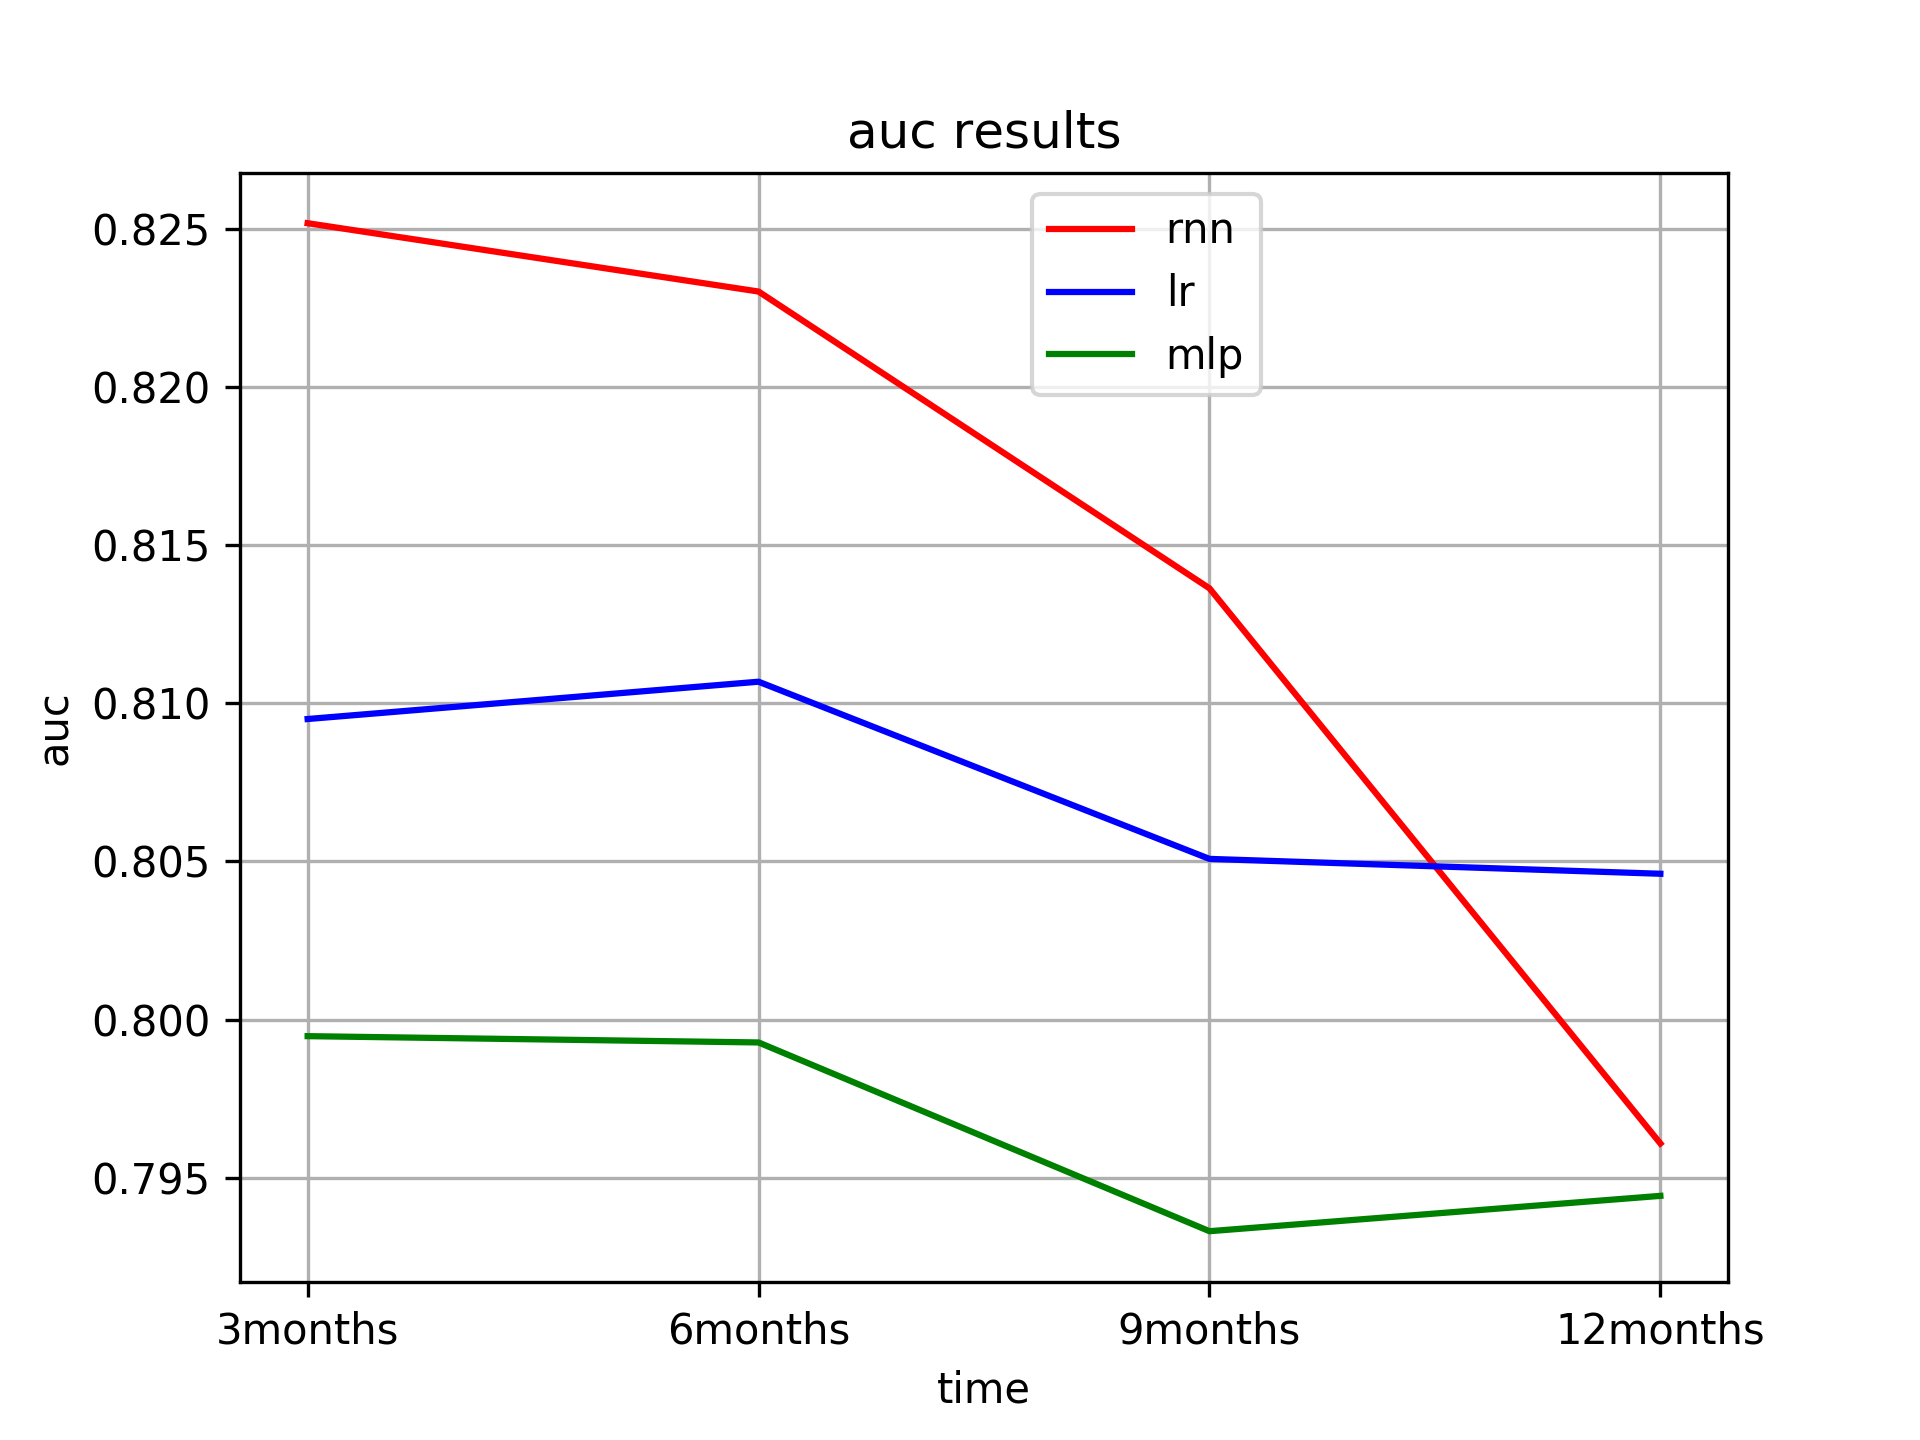
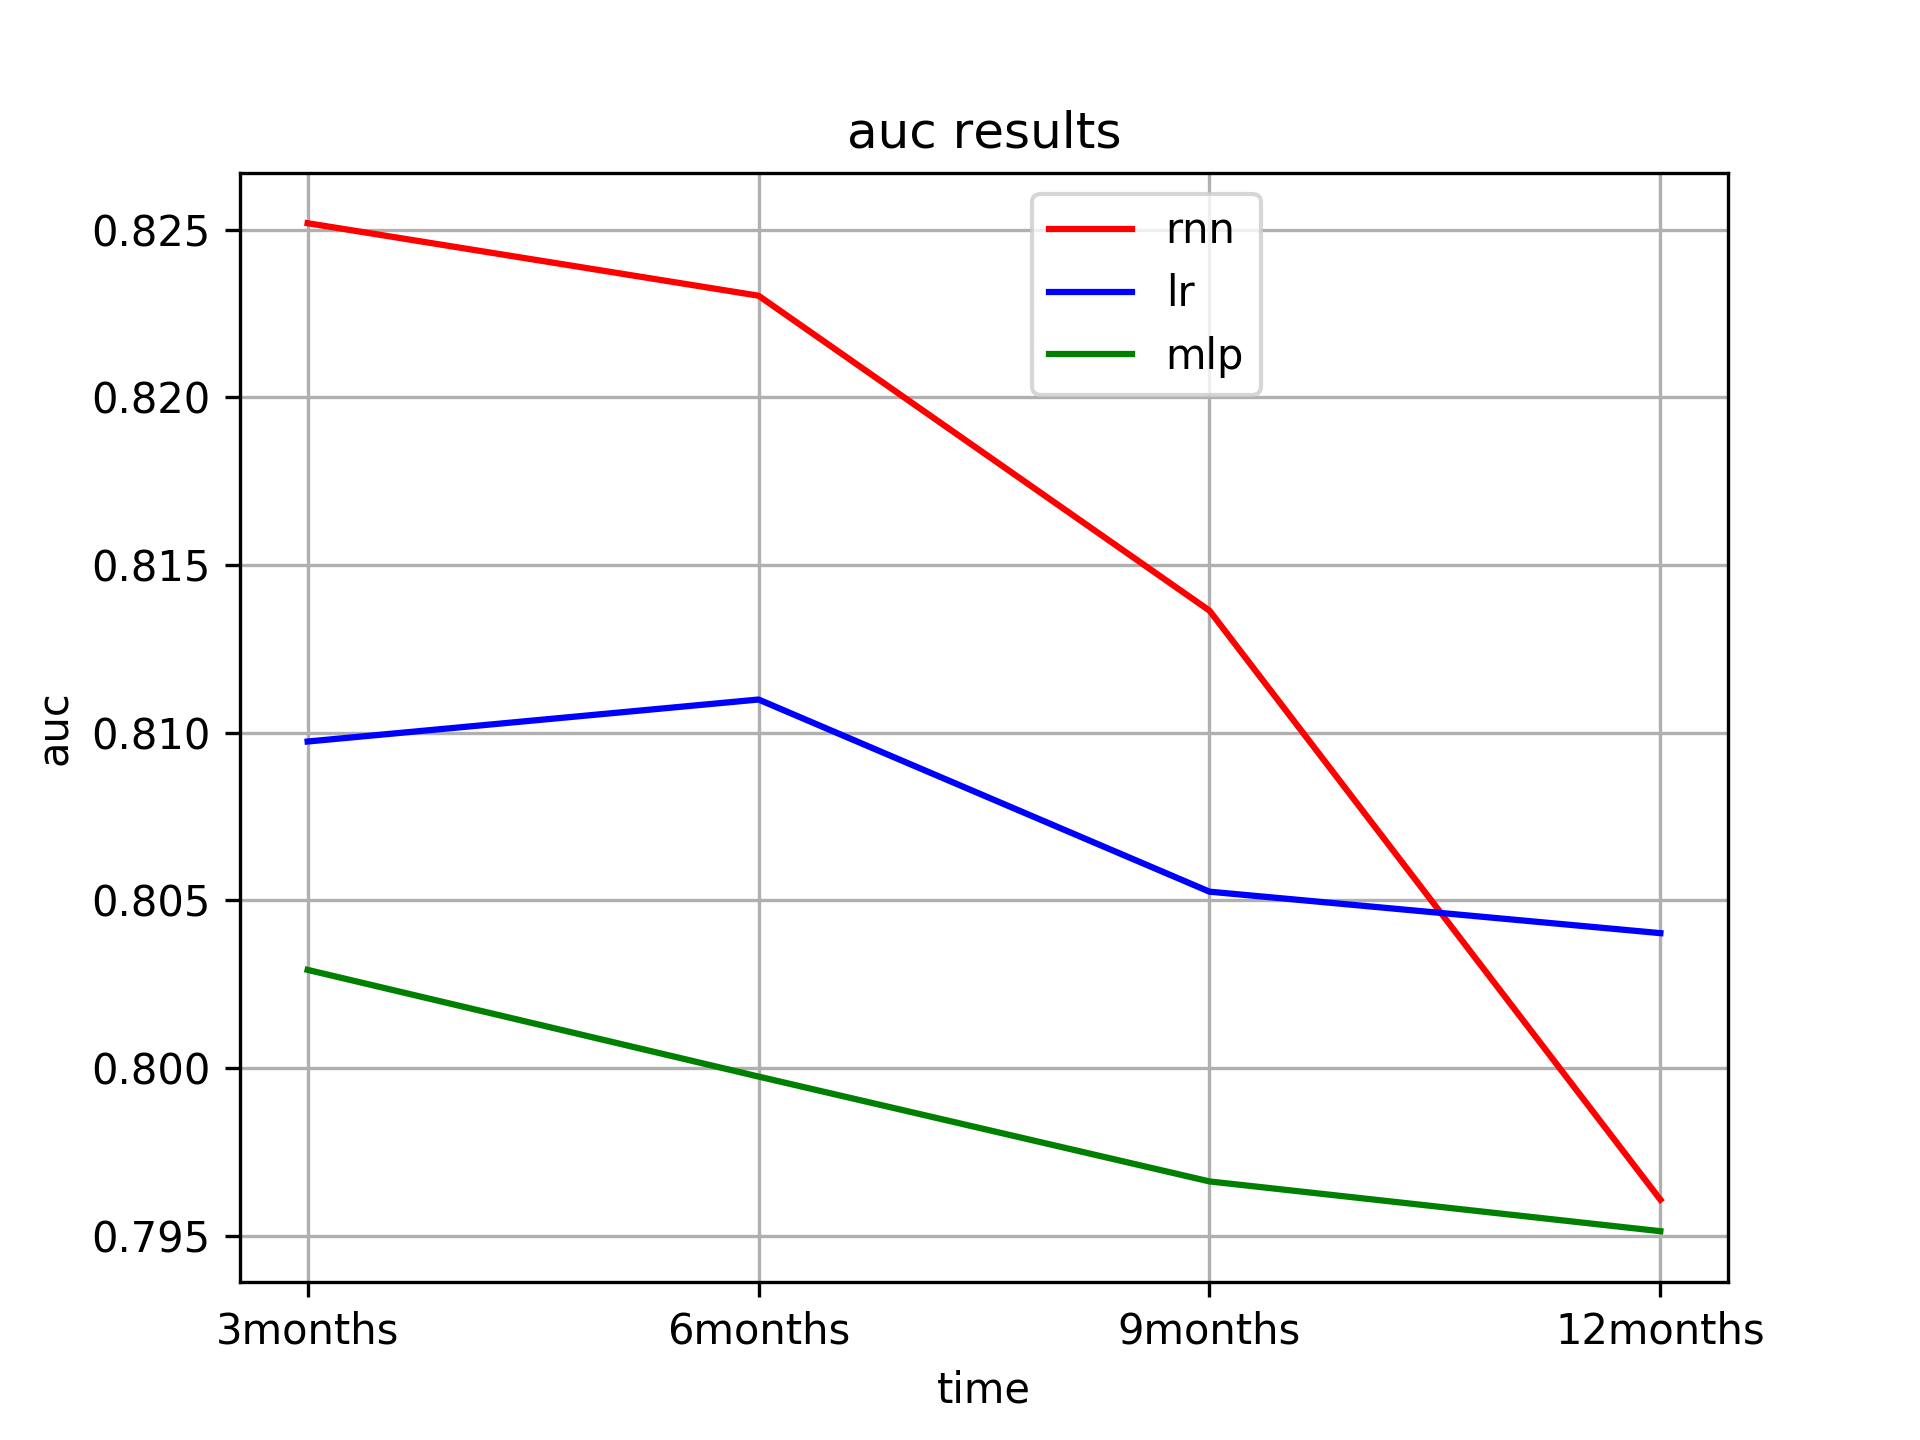
V0.0.9 小幅改动

diff --git a/BaselineTrain.py b/BaselineTrain.py
@@ -30,18 +30,19 @@ def train_lr(month=3, max_epochs=10, batch_size=100):
     jbbm_input = Input(shape=(CreateDataset.jbbm_num,), name='jbbm_input')
     drug_input = Input(shape=(CreateDataset.drug_num,), name='drug_input')
     code_input = concatenate([jbbm_input, drug_input])
+    jbbm_output = Dense(CreateDataset.jbbm_categ_num, activation='softmax', name='jbbm_output')(code_input)
     sick_output = Dense(1, activation='sigmoid', name='sick_output')(code_input)
-    model = Model(inputs=[jbbm_input, drug_input], outputs=[sick_output])
+    model = Model(inputs=[jbbm_input, drug_input], outputs=[jbbm_output, sick_output])
     model.compile(optimizer='rmsprop',
-                  loss={'sick_output': 'binary_crossentropy'},
-                  loss_weights={'sick_output': 1})
+                  loss={'sick_output': 'binary_crossentropy', 'jbbm_output': 'binary_crossentropy'},
+                  loss_weights={'sick_output': 1, 'jbbm_output': 1})
 
     # 模型可视化
     plot_model(model, to_file='./data_png/lr_model.png', show_shapes=True)
 
     dataset_jbbm_train, dataset_drug_train, label_jbbm_train, label_drug_train, label_sick_train = load_train_data(
         month)
-    model.fit(x=[dataset_jbbm_train, dataset_drug_train], y=[label_sick_train],
+    model.fit(x=[dataset_jbbm_train, dataset_drug_train], y=[label_jbbm_train, label_sick_train],
               epochs=max_epochs, batch_size=batch_size, validation_split=0.2)
     model.save('./data_h5/lr_' + str(max_epochs) + 'epochs_' + str(month) + 'month.h5')
 
@@ -50,49 +51,19 @@ def train_mlp(month=3, max_epochs=10, batch_size=100):
     jbbm_input = Input(shape=(CreateDataset.jbbm_num,), name='jbbm_input')
     drug_input = Input(shape=(CreateDataset.drug_num,), name='drug_input')
     code_input = concatenate([jbbm_input, drug_input])
-    hidden_layer = Dense(500)(code_input)
+    hidden_layer = Dense(200)(code_input)
+    jbbm_output = Dense(CreateDataset.jbbm_categ_num, activation='softmax', name='jbbm_output')(hidden_layer)
     sick_output = Dense(1, activation='sigmoid', name='sick_output')(hidden_layer)
-    model = Model(inputs=[jbbm_input, drug_input], outputs=[sick_output])
+    model = Model(inputs=[jbbm_input, drug_input], outputs=[jbbm_output, sick_output])
     model.compile(optimizer='rmsprop',
-                  loss={'sick_output': 'binary_crossentropy'},
-                  loss_weights={'sick_output': 1})
+                  loss={'sick_output': 'binary_crossentropy', 'jbbm_output': 'binary_crossentropy'},
+                  loss_weights={'sick_output': 1, 'jbbm_output': 1})
 
     # 模型可视化
     plot_model(model, to_file='./data_png/mlp_model.png', show_shapes=True)
 
     dataset_jbbm_train, dataset_drug_train, label_jbbm_train, label_drug_train, label_sick_train = load_train_data(
         month)
-    model.fit(x=[dataset_jbbm_train, dataset_drug_train], y=[label_sick_train],
+    model.fit(x=[dataset_jbbm_train, dataset_drug_train], y=[label_jbbm_train, label_sick_train],
               epochs=max_epochs, batch_size=batch_size, validation_split=0.2)
     model.save('./data_h5/mlp_' + str(max_epochs) + 'epochs_' + str(month) + 'month.h5')
-
-
-# def train_xgb(month,max_epochs=10):
-#     dataset_jbbm_train, dataset_drug_train, label_jbbm_train, label_drug_train, label_sick_train \
-#         = load_train_data(month)
-#     params = {
-#         'booster': 'gbtree',
-#         'objective': 'binary:logistic',  # 多分类的问题
-#         'num_class': 2,
-#         'gamma': 0.1,  # 用于控制是否后剪枝的参数,越大越保守，一般0.1、0.2这样子。
-#         'max_depth': 12,  # 构建树的深度，越大越容易过拟合
-#         'lambda': 2,  # 控制模型复杂度的权重值的L2正则化项参数，参数越大，模型越不容易过拟合。
-#         'subsample': 0.7,  # 随机采样训练样本
-#         'colsample_bytree': 0.7,  # 生成树时进行的列采样
-#         'min_child_weight': 3,
-#         # 这个参数默认是 1，是每个叶子里面 h 的和至少是多少，对正负样本不均衡时的 0-1 分类而言
-#         # ，假设 h 在 0.01 附近，min_child_weight 为 1 意味着叶子节点中最少需要包含 100 个样本。
-#         # 这个参数非常影响结果，控制叶子节点中二阶导的和的最小值，该参数值越小，越容易 overfitting。
-#         'silent': 0,  # 设置成1则没有运行信息输出，最好是设置为0.
-#         'eta': 0.007,  # 如同学习率
-#         'seed': 1000,
-#         'nthread': 7,  # cpu 线程数
-#         'eval_metric': 'auc'
-#     }
-#
-#     plst = list(params.items())
-#     xgb_train = xgb.DMatrix(np.hstack((dataset_jbbm_train, dataset_drug_train)),
-#                       label_sick_train)
-#     model = xgb.train(params=plst,dtrain=xgb_train, num_boost_round=max_epochs)
-#     model.save_model('xgb.model')  # 用于存储训练出的模型
-#     return

diff --git a/BaselineTest.py b/BaselineTest.py
@@ -15,6 +15,56 @@ def load_test_data(month):
     return dataset_jbbm_test, dataset_drug_test, label_jbbm_test, label_drug_test, label_sick_test
 
 
+def recall_top(y_true, y_pred, rank=None):
+    if rank is None:
+        rank = [1, 2, 3]
+    recall = list()
+    for i in range(len(y_pred)):
+        thisOne = list()
+        count = 0
+        for j in y_true[i]:
+            if j == 1:
+                count += 1
+        if count:
+            codes = np.argsort(y_true[i])
+            tops = np.argsort(y_pred[i])
+            for rk in rank:
+                thisOne.append(
+                    len(set(codes[len(codes) - count:]).intersection(set(tops[len(tops) - rk:]))) * 1.0 / count)
+            recall.append(thisOne)
+
+    return (np.array(recall)).mean(axis=0).tolist()
+
+
+def precision_top(y_true, y_pred, rank=None):
+    if rank is None:
+        rank = [1, 2, 3]
+    recall = list()
+    for i in range(len(y_pred)):
+        thisOne = list()
+        count = 0
+        for j in y_true[i]:
+            if j == 1:
+                count += 1
+        if count:
+            codes = np.argsort(y_true[i])
+            tops = np.argsort(y_pred[i])
+            for rk in rank:
+                thisOne.append(len(set(codes[len(codes) - count:]).intersection(set(tops[len(tops) - rk:]))) * 1.0 / rk)
+            recall.append(thisOne)
+
+    return (np.array(recall)).mean(axis=0).tolist()
+
+def calculate_r_squared(true_vec, pred_vec):
+    true_vec = np.array(true_vec)
+    pred_vec = np.array(pred_vec)
+    mean_duration = np.mean(true_vec)
+
+    numerator = ((true_vec - pred_vec) ** 2).sum()
+    denominator = ((true_vec - mean_duration) ** 2).sum()
+    return 1.0 - (numerator / denominator)
+
+
 def calculate_auc(true_vec, pred_vec):
     auc = roc_auc_score(true_vec, pred_vec)
     return auc
@@ -38,10 +88,11 @@ def calculate_precision(true_vec, pred_vec):
     return precision
 
 
-def test_lr(filename, month):
+
+def test_lr_sick(filename, month):
     dataset_jbbm_test, dataset_drug_test, label_jbbm_test, label_drug_test, label_sick_test = load_test_data(month)
     model = load_model('./data_h5/' + filename)
-    pred_sick_test = model.predict(x=[dataset_jbbm_test, dataset_drug_test])
+    pred_jbbm_test,pred_sick_test = model.predict(x=[dataset_jbbm_test, dataset_drug_test])
     # print('前十个人的预测情况和患病情况分别为')
     # for i in range(10):
     #     print(pred_sick_test[i], label_sick_test[i])
@@ -54,10 +105,10 @@ def test_lr(filename, month):
     return [auc, acc, precision, recall]
 
 
-def test_mlp(filename, month):
+def test_mlp_sick(filename, month):
     dataset_jbbm_test, dataset_drug_test, label_jbbm_test, label_drug_test, label_sick_test = load_test_data(month)
     model = load_model('./data_h5/' + filename)
-    pred_sick_test = model.predict(x=[dataset_jbbm_test, dataset_drug_test])
+    pred_jbbm_test,pred_sick_test = model.predict(x=[dataset_jbbm_test, dataset_drug_test])
     # print('前十个人的预测情况和患病情况分别为')
     # for i in range(10):
     #     print(pred_sick_test[i], label_sick_test[i])
@@ -68,3 +119,20 @@ def test_mlp(filename, month):
     precision = calculate_precision(label_sick_test, pred_sick_test)
     recall = calculate_recall(label_sick_test, pred_sick_test)
     return [auc, acc, precision, recall]
+
+def test_lr_jbbm(filename, month):
+    dataset_jbbm_test, dataset_drug_test, label_jbbm_test, label_drug_test, label_sick_test = load_test_data(month)
+    model = load_model('./data_h5/' + filename)
+    pred_jbbm_test,pred_sick_test = model.predict(x=[dataset_jbbm_test, dataset_drug_test])
+    print("top1,top2,top3 recall分别为", recall_top(label_jbbm_test, pred_jbbm_test))
+    print("top1,top2,top3 precisoin分别为", precision_top(label_jbbm_test, pred_jbbm_test))
+    print(calculate_r_squared(label_jbbm_test, pred_jbbm_test))
+
+
+def test_mlp_jbbm(filename, month):
+    dataset_jbbm_test, dataset_drug_test, label_jbbm_test, label_drug_test, label_sick_test = load_test_data(month)
+    model = load_model('./data_h5/' + filename)
+    pred_jbbm_test,pred_sick_test = model.predict(x=[dataset_jbbm_test, dataset_drug_test])
+    print("top1,top2,top3 recall分别为", recall_top(label_jbbm_test, pred_jbbm_test))
+    print("top1,top2,top3 precisoin分别为", precision_top(label_jbbm_test, pred_jbbm_test))
+    print(calculate_r_squared(label_jbbm_test, pred_jbbm_test))

diff --git a/DoctorAITest.py b/DoctorAITest.py
@@ -14,7 +14,7 @@ def load_test_data(month):
 
 def recall_top(y_true, y_pred, rank=None):
     if rank is None:
-        rank = [5, 10, 15]
+        rank = [1, 2, 3]
     recall = list()
     for i in range(len(y_pred)):
         thisOne = list()
@@ -22,11 +22,33 @@ def recall_top(y_true, y_pred, rank=None):
         for j in y_true[i]:
             if j == 1:
                 count += 1
-        codes = np.argsort(y_true[i])
-        tops = np.argsort(y_pred[i])
-        for rk in rank:
-            thisOne.append(len(set(codes[len(codes) - count:]).intersection(set(tops[len(tops) - rk:]))) * 1.0 / count)
-        recall.append(thisOne)
+        if count:
+            codes = np.argsort(y_true[i])
+            tops = np.argsort(y_pred[i])
+            for rk in rank:
+                thisOne.append(
+                    len(set(codes[len(codes) - count:]).intersection(set(tops[len(tops) - rk:]))) * 1.0 / count)
+            recall.append(thisOne)
+
+    return (np.array(recall)).mean(axis=0).tolist()
+
+
+def precision_top(y_true, y_pred, rank=None):
+    if rank is None:
+        rank = [1, 2, 3]
+    recall = list()
+    for i in range(len(y_pred)):
+        thisOne = list()
+        count = 0
+        for j in y_true[i]:
+            if j == 1:
+                count += 1
+        if count:
+            codes = np.argsort(y_true[i])
+            tops = np.argsort(y_pred[i])
+            for rk in rank:
+                thisOne.append(len(set(codes[len(codes) - count:]).intersection(set(tops[len(tops) - rk:]))) * 1.0 / rk)
+            recall.append(thisOne)
 
     return (np.array(recall)).mean(axis=0).tolist()
 
@@ -80,9 +102,11 @@ def test_model_sick(filename, month):
     recall = calculate_recall(label_sick_test, pred_sick_test)
     return [auc, acc, precision, recall]
 
+
 def test_model_jbbm(filename, month):
     dataset_jbbm_test, dataset_drug_test, label_jbbm_test, label_drug_test, label_sick_test = load_test_data(month)
     model = load_model('./data_h5/' + filename)
     pred_jbbm_test, pred_drug_test, pred_sick_test = model.predict(x=[dataset_jbbm_test, dataset_drug_test])
-    print("top5,top10,top15 recall分别为", recall_top(label_jbbm_test, pred_jbbm_test))
-    print(calculate_r_squared(label_sick_test, pred_sick_test))
+    print("top1,top2,top3 recall分别为", recall_top(label_jbbm_test, pred_jbbm_test))
+    print("top1,top2,top3 precisoin分别为", precision_top(label_jbbm_test, pred_jbbm_test))
+    print(calculate_r_squared(label_jbbm_test, pred_jbbm_test))

diff --git a/Main.py b/Main.py
@@ -26,37 +26,36 @@ if __name__ == '__main__':
     # for i in month_list:
     #     DoctorAITrain.train_model(month=i, max_epochs=20, batch_size=64)
 
-    # # 测试RNN模型
-    # month_list = [3, 6, 9, 12]
-    # for i in month_list:
-    #     DoctorAITest.test_model('model_20epochs_'+str(i)+'month.h5', month=3)
-
+    # 测试RNN模型
+    month_list = [3, 6, 9, 12]
+    for i in month_list:
+        #DoctorAITest.test_model_sick('model_20epochs_'+str(i)+'month.h5', month=3)
+        DoctorAITest.test_model_jbbm('model_20epochs_'+str(i)+'month.h5', month=3)
+    print()
     # # 训练逻辑回归模型
     # month_list = [3, 6, 9, 12]
     # for i in month_list:
     #     BaselineTrain.train_lr(month=i, max_epochs=20, batch_size=64)
-    #
-    # # 测试逻辑回归模型
-    # month_list = [3, 6, 9, 12]
-    # for i in month_list:
-    #     BaselineTest.test_lr('lr_20epochs_'+str(i)+'month.h5', month=3)
 
+    # 测试逻辑回归模型
+    month_list = [3, 6, 9, 12]
+    for i in month_list:
+        #BaselineTest.test_lr_sick('lr_20epochs_'+str(i)+'month.h5', month=3)
+        BaselineTest.test_lr_jbbm('lr_20epochs_' + str(i) + 'month.h5', month=3)
+    print()
     # # 训练多层感知机模型
     # month_list = [3, 6, 9, 12]
     # for i in month_list:
     #     BaselineTrain.train_mlp(month=i, max_epochs=20, batch_size=64)
-    #
-    # 测试多层感知机模型
-    # month_list = [3, 6, 9, 12]
-    # for i in month_list:
-    #     BaselineTest.test_mlp('mlp_20epochs_'+str(i)+'month.h5', month=3)
 
-    # # 训练xgboost模型
-    # month_list = [3, 6, 9, 12]
-    # for i in month_list:
-    #     BaselineTrain.train_xgb(month=i)
+    #测试多层感知机模型
+    month_list = [3, 6, 9, 12]
+    for i in month_list:
+        #BaselineTest.test_mlp_sick('mlp_20epochs_'+str(i)+'month.h5', month=3)
+        BaselineTest.test_mlp_jbbm('mlp_20epochs_' + str(i) + 'month.h5', month=3)
+    print()
 
-    # 绘制疾病预测结果
-    PlotContent.plot_sick_results()
+    # # 绘制疾病预测结果
+    # PlotContent.plot_sick_results()
 
     print('总时间:', time.clock() - start)

diff --git a/CreateDataset.py b/CreateDataset.py
@@ -11,17 +11,17 @@ drug_categ_num = 135
 
 # 创建诊断数据集
 def create_dataset_jbbm(cursor):
-    # sql = 'select grbh_index,xh_index,jbbm_index from DATA_ANALYSIS_JBBM where XH_INDEX!=0'
-    # all_info = DBOptions.getSQL(sql, cursor=cursor)
-    # dataset_jbbm = np.zeros((patient_num, visit_num, jbbm_num), dtype='int32')
-    # print('诊断数据集大小：', dataset_jbbm.shape)
-    # for i in all_info:
-    #     if i[1] < visit_num:
-    #         dataset_jbbm[i[0], -i[1], i[2]] = 1
-    # dataset_jbbm_train = dataset_jbbm[:int(patient_num * 0.85)]
-    # dataset_jbbm_test = dataset_jbbm[int(patient_num * 0.85):]
-    # np.savez_compressed('./data_npz/dataset_jbbm_train.npz', dataset_jbbm_train)
-    # np.savez_compressed('./data_npz/dataset_jbbm_test.npz', dataset_jbbm_test)
+    sql = 'select grbh_index,xh_index,jbbm_index from DATA_ANALYSIS_JBBM where XH_INDEX!=0'
+    all_info = DBOptions.getSQL(sql, cursor=cursor)
+    dataset_jbbm = np.zeros((patient_num, visit_num, jbbm_num), dtype='int32')
+    print('诊断数据集大小：', dataset_jbbm.shape)
+    for i in all_info:
+        if i[1] < visit_num:
+            dataset_jbbm[i[0], -i[1], i[2]] = 1
+    dataset_jbbm_train = dataset_jbbm[:int(patient_num * 0.85)]
+    dataset_jbbm_test = dataset_jbbm[int(patient_num * 0.85):]
+    np.savez_compressed('./data_npz/dataset_jbbm_train.npz', dataset_jbbm_train)
+    np.savez_compressed('./data_npz/dataset_jbbm_test.npz', dataset_jbbm_test)
 
     time_list = ['2014-10-29', '2015-01-29', '2015-04-29', '2015-07-29']
     for i in range(len(time_list)):

diff --git a/PlotContent.py b/PlotContent.py
@@ -15,12 +15,12 @@ def plot_sick_results():
         model_results.append(model_result)
     # 测试逻辑回归模型
     for i in month_list:
-        lr_result = BaselineTest.test_lr('lr_20epochs_' + str(i) + 'month.h5', month=3)
+        lr_result = BaselineTest.test_lr_sick('lr_20epochs_' + str(i) + 'month.h5', month=3)
         lr_results.append(lr_result)
 
     # 测试多层感知机模型
     for i in month_list:
-        mlp_result = BaselineTest.test_mlp('mlp_20epochs_' + str(i) + 'month.h5', month=3)
+        mlp_result = BaselineTest.test_mlp_sick('mlp_20epochs_' + str(i) + 'month.h5', month=3)
         mlp_results.append(mlp_result)
     model_results=np.asarray(model_results)
     lr_results=np.asarray(lr_results)
